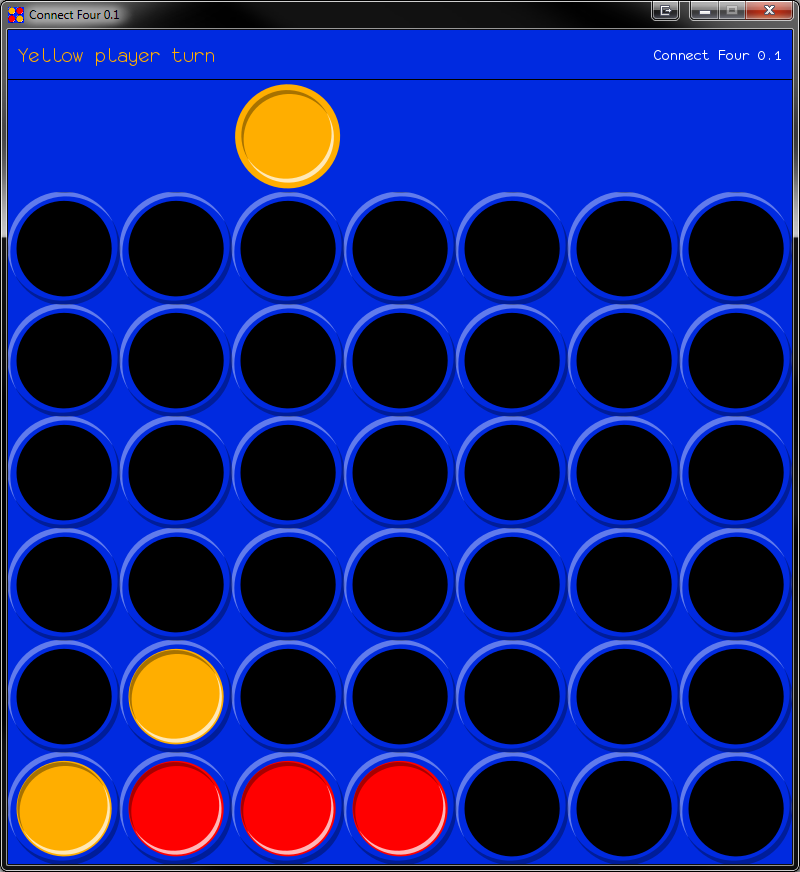
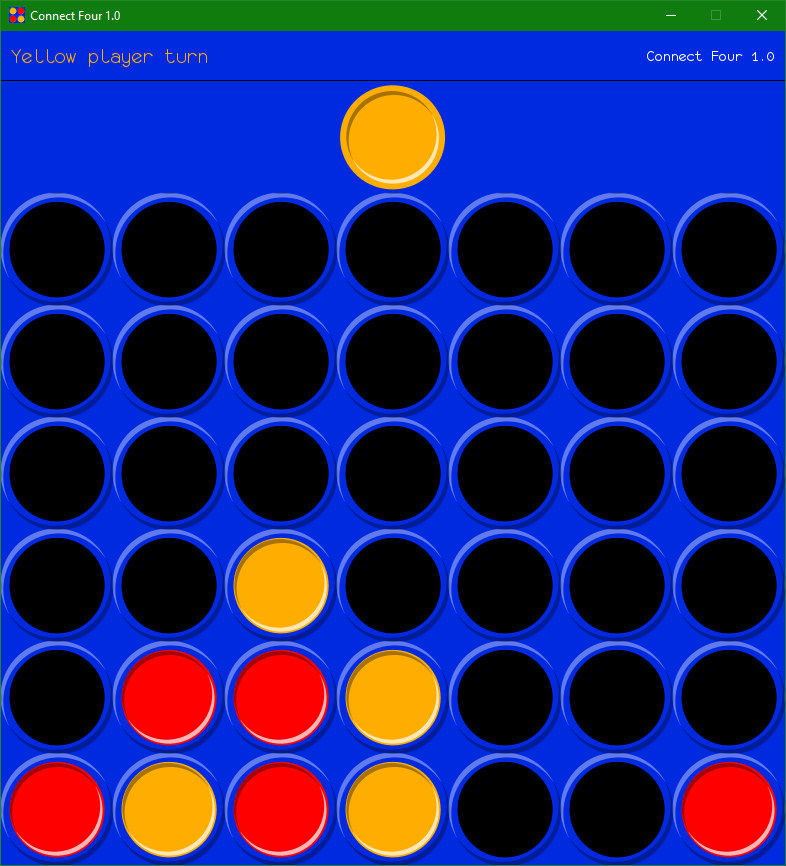
Update version

diff --git a/config.py b/config.py
@@ -3,7 +3,7 @@ import pygame
 import sys
 import os
 
-VERSION = '0.1'
+VERSION = '1.0'
 FPS = 60
 IMAGES_SIDE_SIZE = 112
 COLS = 7
